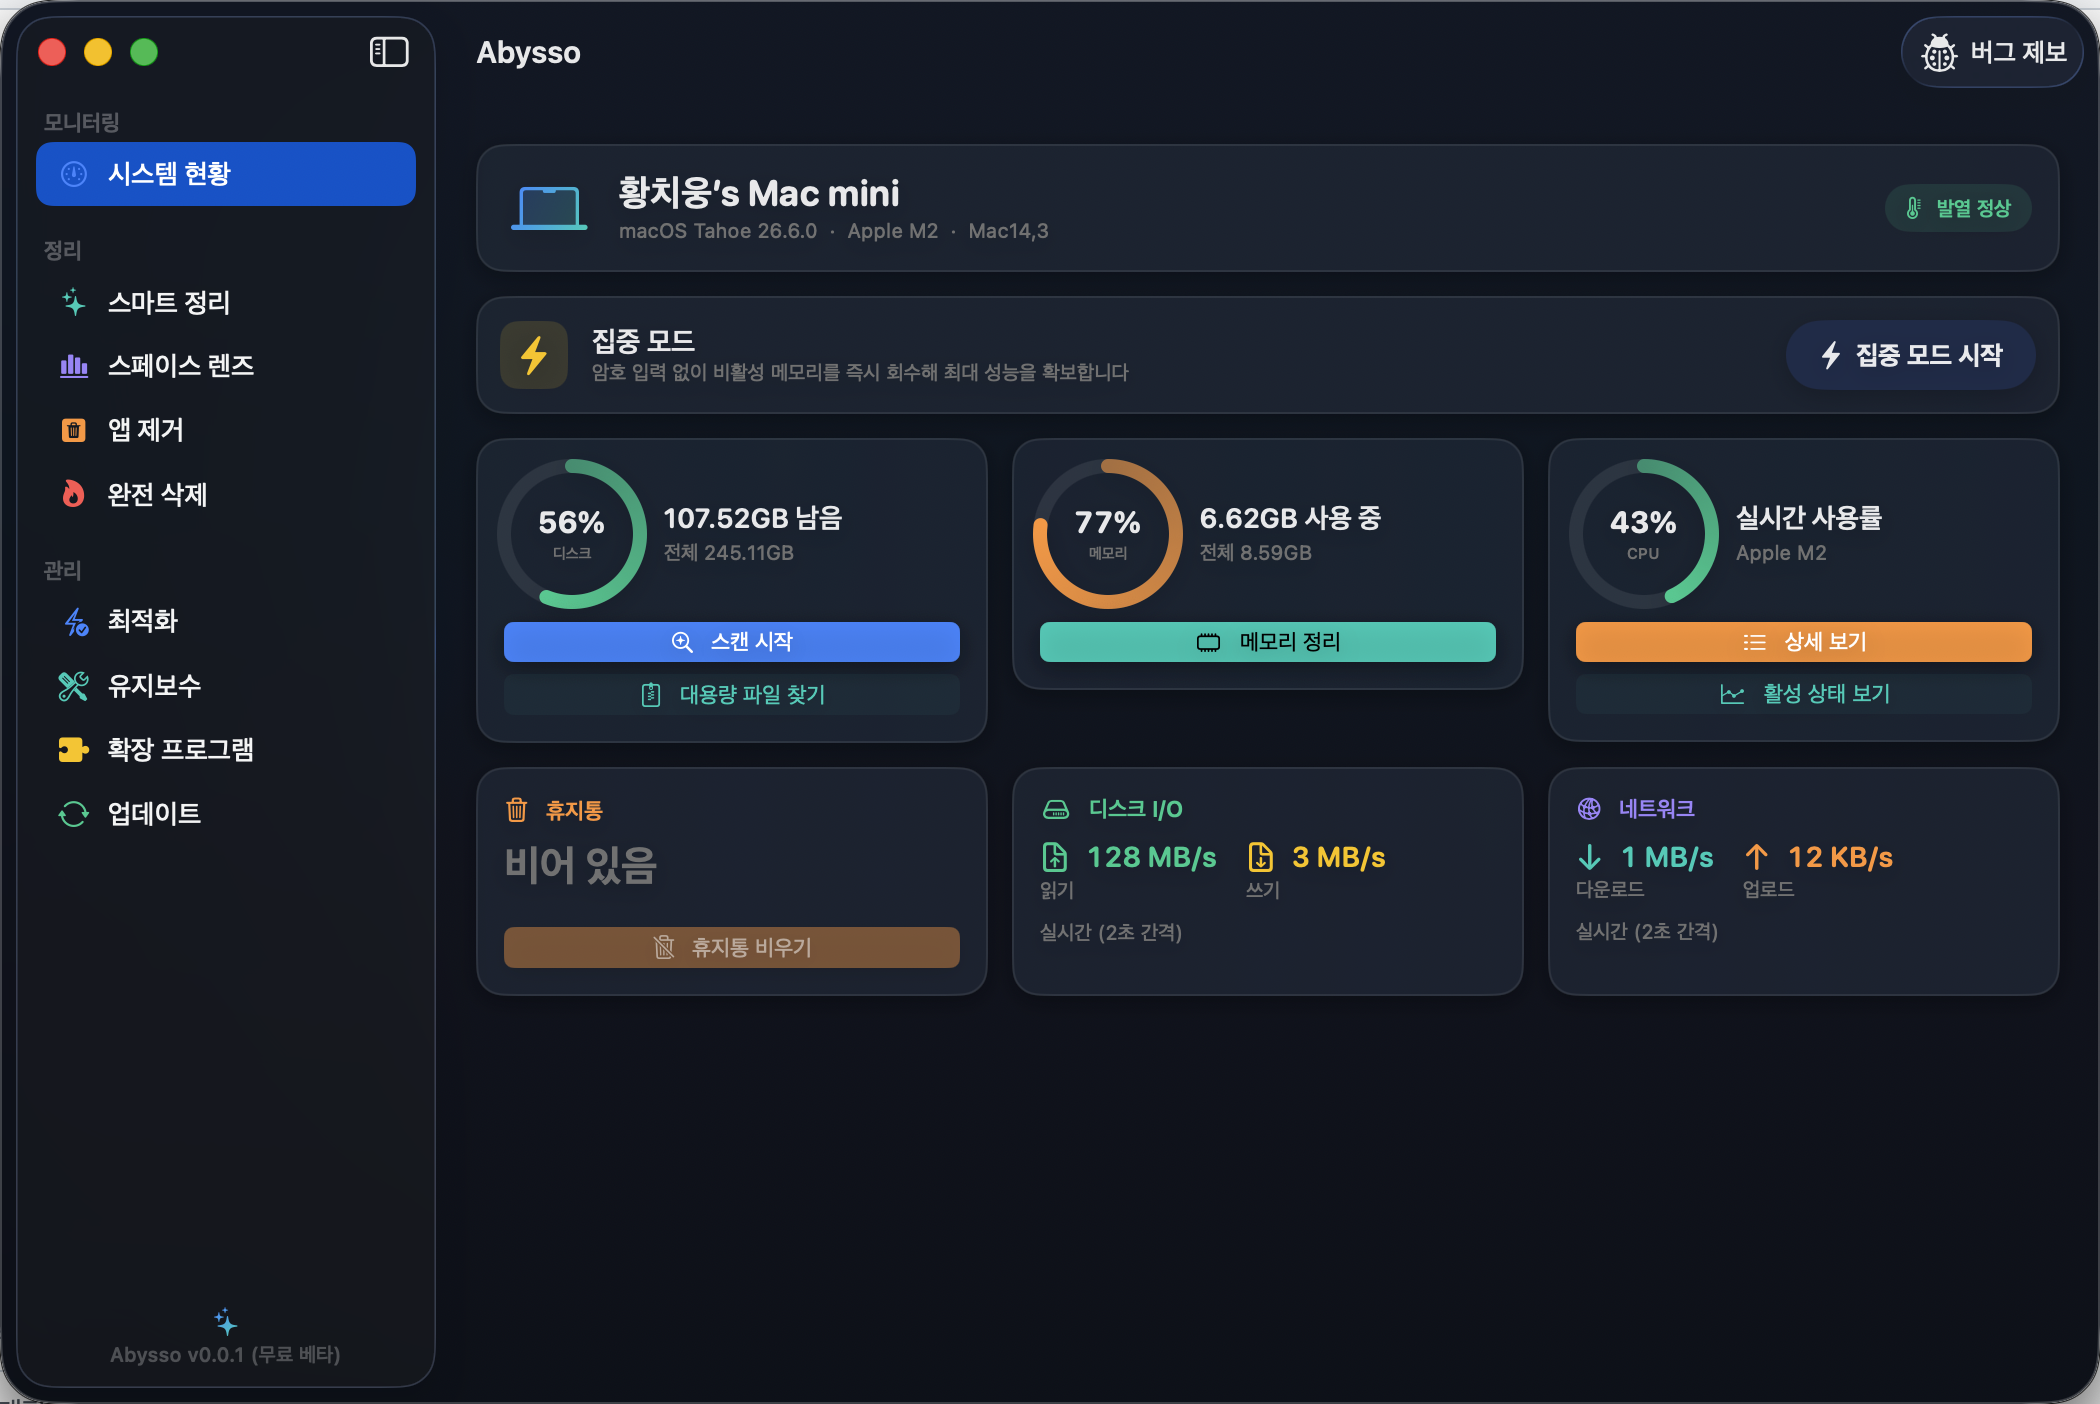
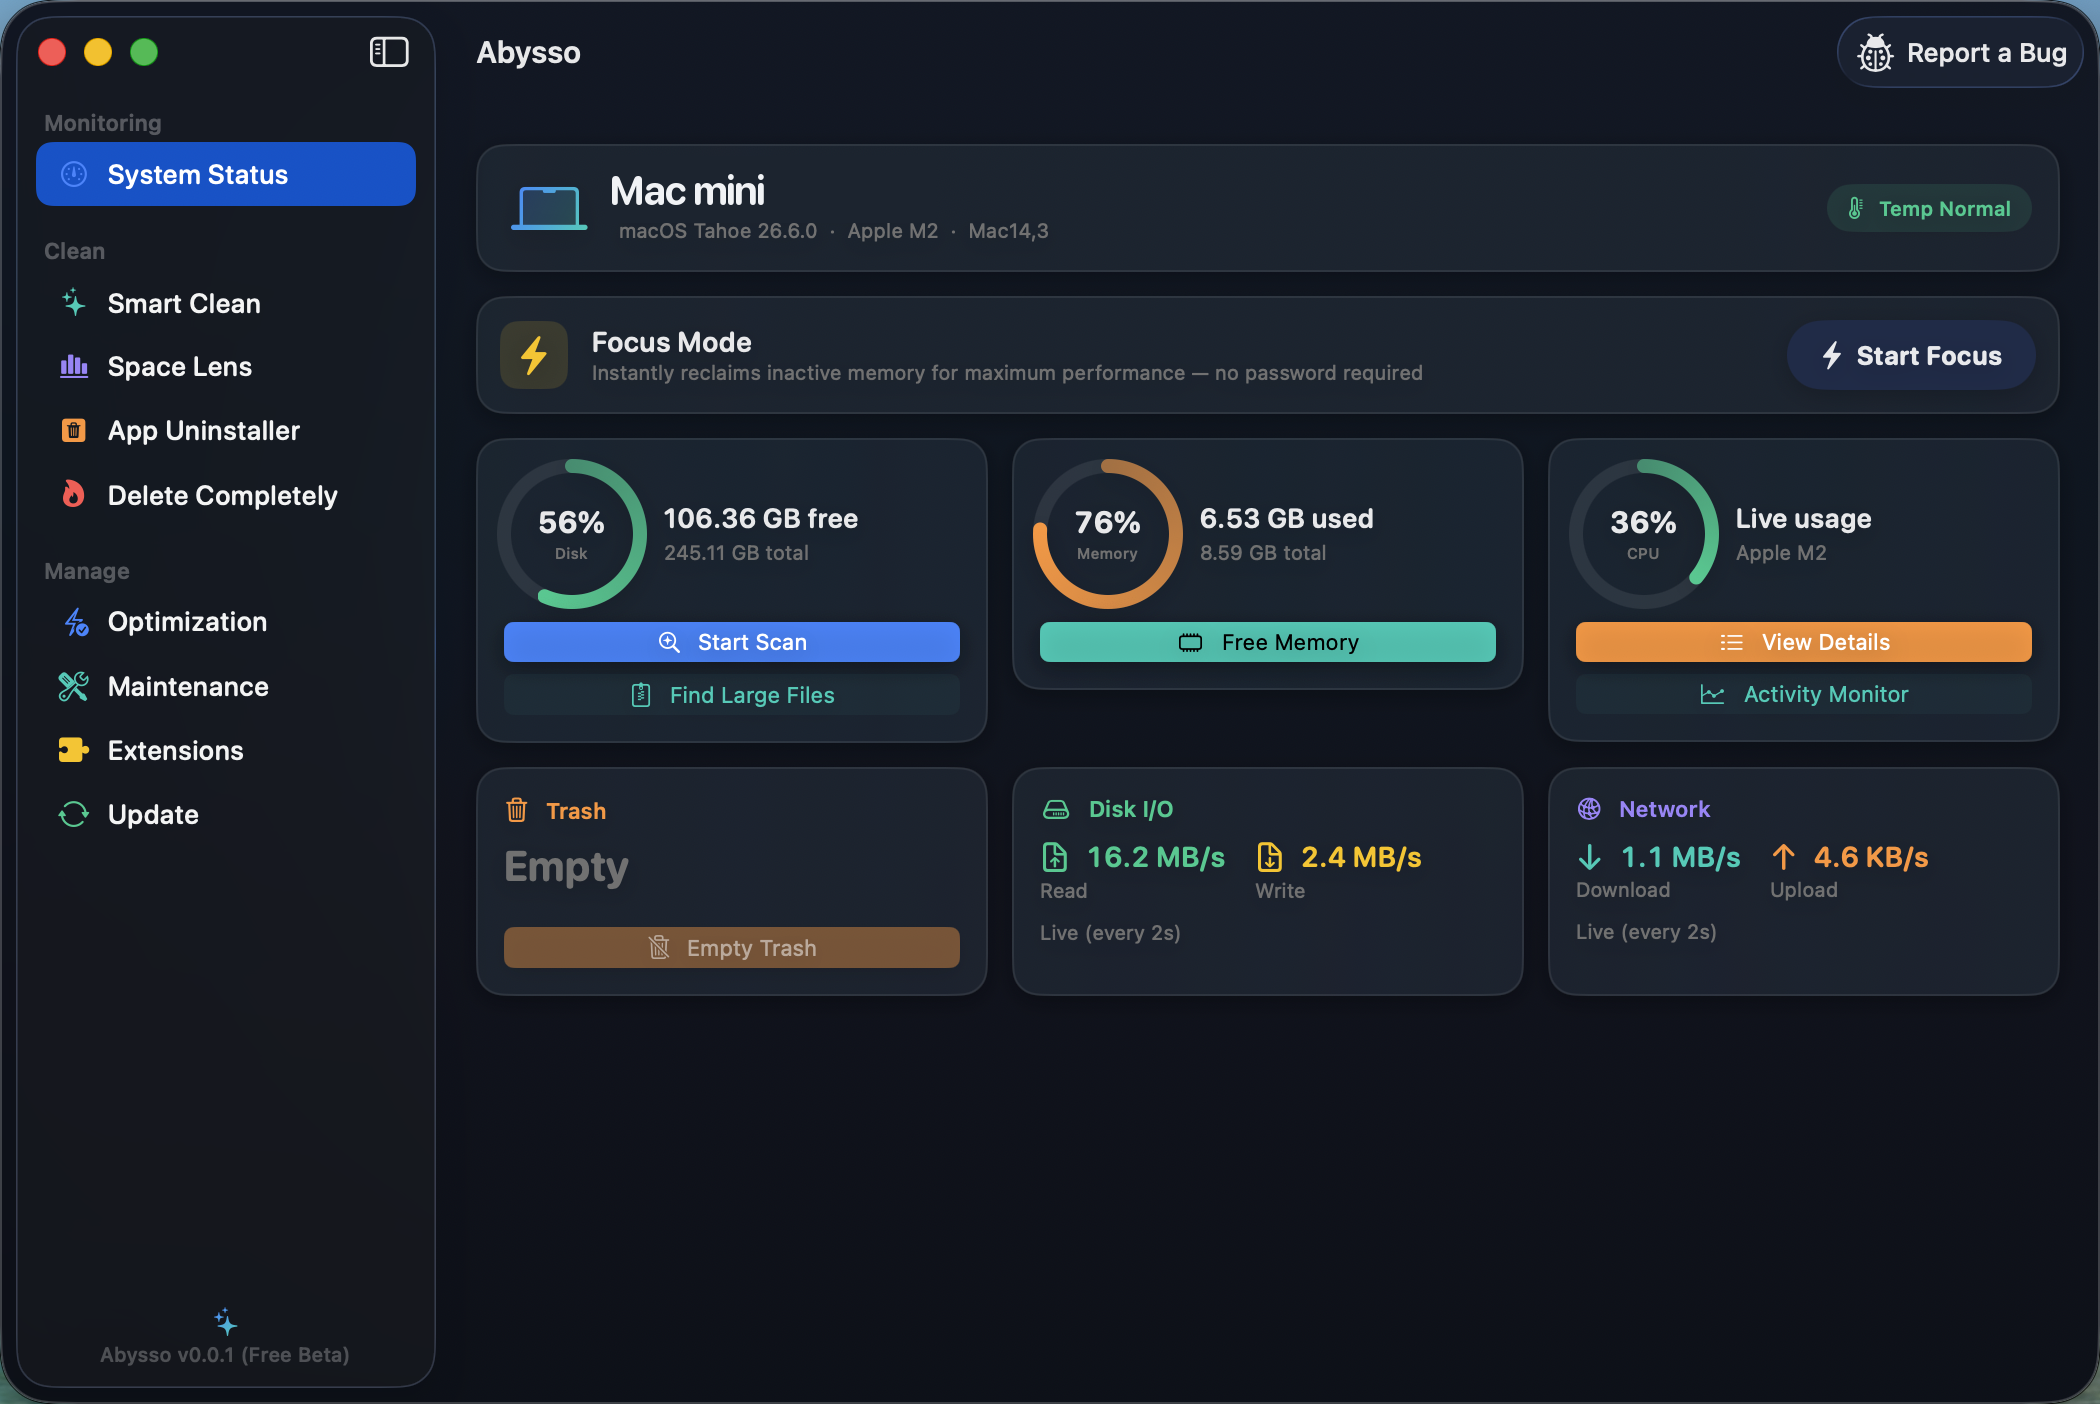
버그 수정: 스페이스 렌즈 스캔이 미디어 보관함 권한 팝업을 띄우던 문제
- ~/Music/Music/Media.localized·~/Movies/TV/Media.localized 같은 Apple 미디어
  관리 폴더의 파일 크기·접근일을 enumerator가 미리 읽는 것만으로도 시스템
  '미디어 보관함 접근' 권한 팝업이 뜨던 문제
- mediaLibrarySubpaths에 ~/Music·~/Movies를 폴더째 추가해 스캔에서 제외
- 스킵 판정을 resourceValues 읽기보다 앞으로 이동 + 미디어 번들(.musiclibrary,
  .tvlibrary 등)을 위치 무관 이름으로 판별
- TCC 리셋 후 스캔으로 팝업 미발생 검증 완료

diff --git a/Sources/Abysso/LargeFilesView.swift b/Sources/Abysso/LargeFilesView.swift
@@ -256,10 +256,28 @@ final class LargeFilesModel: ObservableObject {
     ]
 
     /// 미디어 보관함(음악·사진)은 별도 TCC 권한을 추가로 요구하므로 FDA와 무관하게 항상 건너뛴다.
+    /// (경로는 macOS 버전에 따라 ~/Music/Music/… 처럼 중첩될 수 있어 이름 기반 판별도 함께 쓴다.)
     nonisolated static let mediaLibrarySubpaths = [
-        "Music/Music Library.musiclibrary", "Music/iTunes",
+        // ~/Music(Apple Music)·~/Movies(Apple TV)는 각각 라이브러리 번들뿐 아니라 실제
+        // 미디어 파일이 든 Media 폴더를 품고 있다. 시스템 '미디어 보관함' 권한은 음악·비디오를
+        // 함께 보호하므로, enumerator가 이 하위 파일들의 크기·접근일을 미리 읽는 것만으로도
+        // 권한 팝업이 뜬다. 두 폴더 모두 폴더째 건너뛰어 팝업을 원천 차단한다.
+        "Music",
+        "Movies",
         "Pictures/Photos Library.photoslibrary",
     ]
+
+    /// 위치와 무관하게 통째로 건너뛸 미디어 보관함 번들 확장자.
+    /// 이런 번들은 크기·접근일을 조회하는 것만으로도 '미디어 보관함 접근' 시스템
+    /// 권한 팝업을 유발하므로, 경로가 어디에 있든 이름(확장자)으로 판별해 건너뛴다.
+    nonisolated static let mediaBundleSuffixes = [
+        ".musiclibrary", ".photoslibrary", ".photolibrary",
+        ".tvlibrary", ".imovielibrary", ".theater", ".migratedphotolibrary",
+    ]
+
+    nonisolated static func isMediaLibraryBundle(_ name: String) -> Bool {
+        mediaBundleSuffixes.contains { name.hasSuffix($0) }
+    }
 
     /// FDA가 있어도 개별 시스템 팝업이나 원격 다운로드를 유발할 수 있어 항상 통째로 건너뛰는 경로.
     /// (iCloud Drive는 접근 순간 미다운로드 파일을 내려받으려 할 수 있고,
@@ -306,7 +324,7 @@ final class LargeFilesModel: ObservableObject {
 
         var found: [LargeFile] = []
         var subdirs: [URL] = []
-        for url in top where !isSkipped(url.path) {
+        for url in top where !isSkipped(url.path) && !Self.isMediaLibraryBundle(url.lastPathComponent) {
             guard let values = try? url.resourceValues(forKeys: Set(scanKeys)) else { continue }
             if values.isSymbolicLink == true { continue }  // 링크는 따라가지 않는다 (순환 방지)
             if values.isDirectory == true {
@@ -352,20 +370,23 @@ final class LargeFilesModel: ObservableObject {
         ) else { return [] }
 
         for case let url as URL in enumerator {
+            // 스킵 판정을 resourceValues 읽기보다 먼저 한다.
+            // 미디어 보관함(Music Library.musiclibrary 등) 같은 TCC 보호 경로는 크기·접근일을
+            // 조회하는 것만으로도 시스템 권한 팝업(음악·미디어 보관함 접근)을 띄우므로,
+            // 메타데이터를 읽기 전에 통째로 건너뛰어야 팝업이 뜨지 않는다.
+            if url.lastPathComponent == ".Trash"
+                || Self.isMediaLibraryBundle(url.lastPathComponent)
+                || isSkipped(url.path) {
+                enumerator.skipDescendants()
+                continue
+            }
             guard let values = try? url.resourceValues(forKeys: Set(scanKeys)) else { continue }
             sinceReport += 1
             if sinceReport >= 2000 {
                 progress?(sinceReport)   // UI 갱신은 파일마다가 아니라 2,000개 배치로만
                 sinceReport = 0
             }
-            if values.isDirectory == true {
-                // 스킵 판정은 폴더에서만 — 파일마다 문자열 비교를 반복하지 않는다.
-                // 폴더를 열기 전에 건너뛰므로 TCC 팝업도 유발하지 않는다.
-                if url.lastPathComponent == ".Trash" || isSkipped(url.path) {
-                    enumerator.skipDescendants()
-                }
-                continue
-            }
+            if values.isDirectory == true { continue }
             guard values.isRegularFile == true else { continue }
             let size = Int64(values.totalFileAllocatedSize ?? values.fileAllocatedSize ?? 0)
             if size >= minBytes {